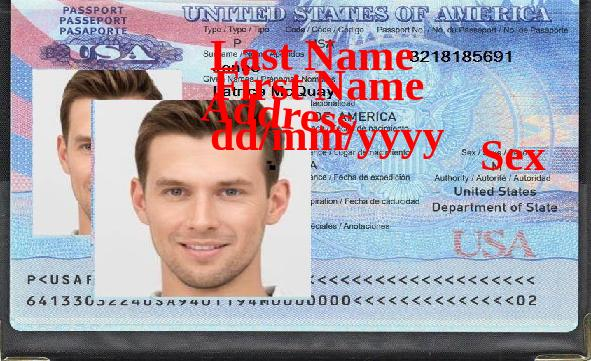
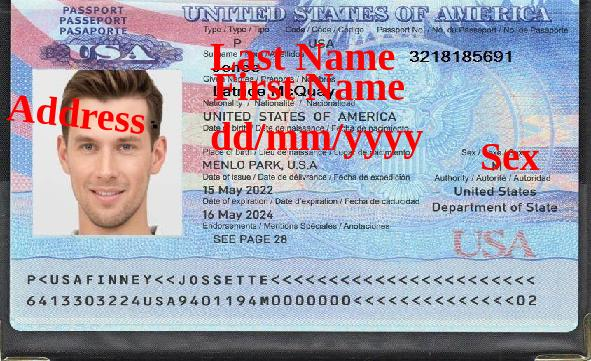
update

Changed region(s): [[0.0, 0.0914, 0.7614, 0.8532], [0.7919, 0.3657, 0.9442, 0.4875]]

diff --git a/create_passport.py b/create_passport.py
@@ -57,7 +57,7 @@ def save_url_image(facebook_id, options,  image_url, image,
             avt = QPixmap("input_avatar/image.jpg")
             avt.save(f"input_avatar/{facebook_id}.jpg", "JPG")
         elif options == 2:
-            image.save(f"input_phoi/{facebook_id}.jpg", "JPG")
+            image.save(f"input_avatar/{facebook_id}.jpg", "JPG")
             avt = image
 
 
@@ -96,7 +96,12 @@ def save_url_image(facebook_id, options,  image_url, image,
         font.setBold(is_bold)
         width = 591  # desired width
         height = 361  # desired height
-        background_image = QPixmap(URL_Phoi)
+        if options == 1:
+            background_image = QPixmap('input_phoi/input2.jpg')
+            # print(background_image)
+        else:
+            print(URL_Phoi)
+            background_image = QPixmap(URL_Phoi)
         background_image = background_image.scaled(width, height)
         foreground_image = avt.scaled(avt_w, avt_h)
         transform = QTransform()
